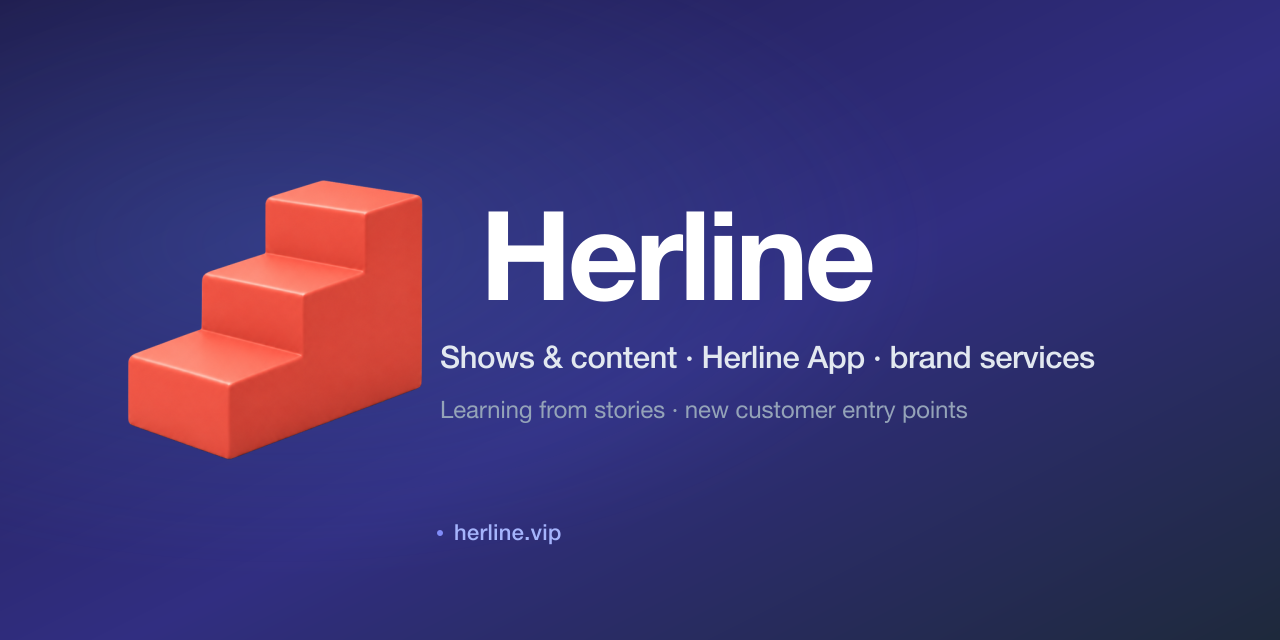
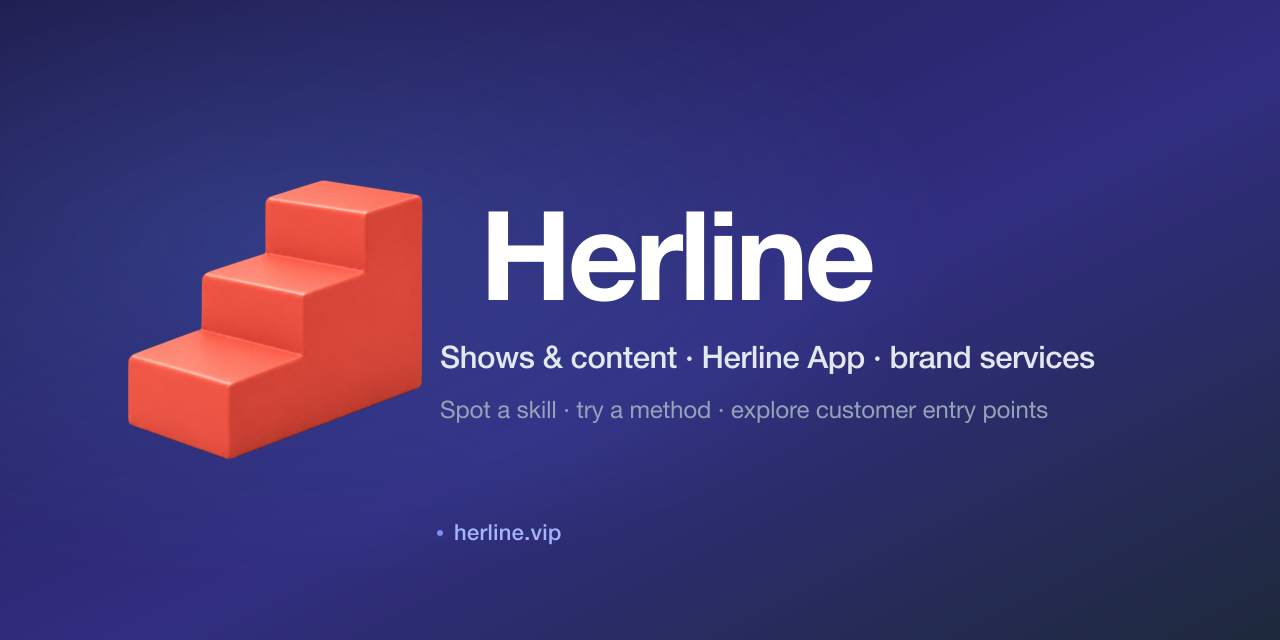
docs: make individual value concrete across public entry points

Changed region(s): [[0.3438, 0.625, 0.8125, 0.6562]]

diff --git a/README.md b/README.md
@@ -6,7 +6,7 @@
 
 <p align="center">
   <strong>Shows and content · Herline App · services for organizations</strong><br>
-  Different paths for people learning from content and businesses seeking new customer entry points.
+  People can spot a skill in a show's story and try a method; businesses can explore new customer entry points.
 </p>
 
 <p align="center">
@@ -32,7 +32,7 @@
 
 Herline is a broader project connecting shows and other content, learning and participation paths, Herline App, and services for organizations. **Herline App is one digital product within that project**, not the name for everything Herline does.
 
-The same content can matter to different readers for different reasons. A person may discover a skill worth learning; an organization may explore a new way for people to discover it. The two paths have different aims and must be assessed on their own terms.
+The same content can matter to different readers for different reasons. A person may examine a judgment or method shown in a story and try it in their own situation; an organization may explore a new way for customers to discover it. The two paths have different aims and must be assessed on their own terms.
 
 <a id="for-people"></a>
 
@@ -50,7 +50,7 @@ Herline's service direction is to help organizations develop new customer-acquis
 
 ## Public product experience
 
-Herline App is Herline's digital product. Its public AI workspace supports **judgment and expression**: AI can help with a task while people remain responsible for direction, evidence, and the final result. It is one possible way to continue from content into learning or work; show-specific participation depends on what the live product actually offers.
+Herline App is Herline's digital product. Its public AI workspace covers reading with sources, preparing courses and presentations, and rehearsing conversations. People check evidence and decide whether to use the output. Show-specific participation depends on what the live product actually offers.
 
 Herline App currently brings together practical loops:
 
@@ -69,8 +69,8 @@ Herline separates user-facing surfaces, AI agents, and long-running workflows. A
 
 | User-facing surface | AI / workflow responsibility | User outcome |
 | --- | --- | --- |
-| Assessment | Profile and starting-point capture | A clearer learning or creation starting point |
-| Atlas | Helena plans and discusses reading paths | Better source selection and learning direction |
+| Assessment | Profile and starting-point capture | A recorded starting point for reading or creation |
+| Atlas | Helena plans and discusses reading paths | A reading plan and sources to examine |
 | Library | D2B deep-reading workflow | Traceable knowledge blocks and cross-source understanding |
 | Studio | Holly develops course briefs | Audience, learning arc, structure, and delivery plan |
 | Courses | B2C course-generation workflow | Structured lessons, scripts, audio, and assessments |
@@ -88,9 +88,9 @@ See [Public product architecture](docs/architecture.md) and the [Glossary](docs/
 | Audience | Typical need | Herline path |
 | --- | --- | --- |
 | People following a show or related content | Notice a skill, question a decision, or try an idea themselves | Published content; any participation actions shown in the live product |
-| Youth learners and guardians | Build judgment, expression, and visible work over time | Assessment, Atlas, Library, Courses, Assistant |
-| Adult professionals | Turn experience into clearer decisions, presentations, courses, and market-facing work | Library, Studio, Prep, Assistant, distribution |
-| Youth educators | Prepare learning material and improve delivery without giving up professional judgment | Pro creation, research, and delivery tools |
+| Youth learners and guardians | Find material to read, examine sources, and rehearse speaking where eligible | Assessment, Atlas, Library, Courses, Assistant |
+| Adult professionals | Prepare a course brief or presentation from sources, or rehearse a conversation | Library, Studio, Prep, Assistant, distribution |
+| Youth educators | Draft lesson material, presentations, or research notes for review | Pro creation, research, and delivery tools |
 | Organizations and brands | Explore new customer entry points and manage acquisition costs | An engagement defined and assessed for the specific organization |
 | Invited operators and partners | Coordinate approved programs and distribute approved work | Role-scoped workspaces and operating tools |
 

diff --git a/README.zh-CN.md b/README.zh-CN.md
@@ -6,7 +6,7 @@
 
 <p align="center">
   <strong>节目与内容 · Herline App · 企业合作服务</strong><br>
-  面向个人的学习参与，与面向企业的新获客入口探索，各有其价值。
+  个人从节目里看见本事、尝试做法；企业探索新的获客入口。
 </p>
 
 <p align="center">
@@ -34,7 +34,7 @@
 
 Herline 是连接节目与其他内容、学习和参与路径、Herline App，以及企业服务的整体项目。**Herline App 是其中一款自有数字产品**，不等于 Herline 的全部。
 
-同一份内容对不同读者有不同价值：个人可能从中看见值得学习的本事，企业则可能探索新的被发现方式。两端的目标不同，也应分别验证。
+同一份内容对不同读者有不同价值：个人可以琢磨故事中的判断和方法，放到自己的情境中试一试；企业则可能探索新的客户发现路径。两端的目标不同，也应分别验证。
 
 <a id="for-people"></a>
 
@@ -54,7 +54,7 @@ Herline 的服务方向是帮助企业建立新的获客入口，并管理、降
 
 ## 公开产品体验
 
-Herline App 是 Herline 的数字产品。其公开 AI 工作台支持**判断力与表达力**：AI 可以协助完成任务，人负责确定方向、核验证据并对最终结果承担责任。它是从内容继续走向学习或实践的一种产品路径；分节目参与能力以实时产品实际开放情况为准。
+Herline App 是 Herline 的数字产品。其公开 AI 工作台覆盖带来源的阅读、课程与讲稿准备、语音排练等任务。人需要核对证据，并决定是否采用结果。分节目参与能力以实时产品实际开放情况为准。
 
 Herline App 当前提供多条实用链路：
 
@@ -73,8 +73,8 @@ Herline 明确区分用户界面、AI Agent 与长任务工作流。一个名称
 
 | 用户界面 | Agent / 工作流职责 | 用户得到什么 |
 | --- | --- | --- |
-| Assessment 测评 | 建立画像与起点 | 更清楚的学习或创作起点 |
-| Atlas 找书 | Helena 讨论并规划阅读路径 | 更合适的选材与学习方向 |
+| Assessment 测评 | 建立画像与起点 | 留下阅读或创作的起点记录 |
+| Atlas 找书 | Helena 讨论并规划阅读路径 | 阅读计划和待核对的来源 |
 | Library 读书 | D2B 深度解构工作流 | 可追溯的知识块与跨来源理解 |
 | Studio 创课 | Holly 形成课程策划 | 受众、学习弧线、结构与交付方案 |
 | Courses 课程 | B2C 课程生成工作流 | 结构化课程、脚本、音频与评估题 |
@@ -94,9 +94,9 @@ Herline 明确区分用户界面、AI Agent 与长任务工作流。一个名称
 | 服务对象 | 典型需求 | 主要路径 |
 | --- | --- | --- |
 | 关注节目或相关内容的人 | 看见值得学习的本事、追问某个判断、自己尝试一种做法 | 已公开内容；实时产品已开放的参与操作 |
-| 青少学员与监护人 | 长期形成判断力、表达力和可见作品 | 测评、找书、读书、课程、语音排练 |
-| 成人专业人士 | 把多年经验重新变成决定、表达、课程和市场成果 | 深读、创课、讲稿、排练与分发 |
-| 青少老师 | 借助 AI 备课和交付，同时保留专业判断 | Pro 创作、研究与交付工具 |
+| 青少学员与监护人 | 在适用权限下找阅读材料、核对来源、练习表达 | 测评、找书、读书、课程、语音排练 |
+| 成人专业人士 | 根据来源准备课程策划或讲稿，或排练一次重要对话 | 深读、创课、讲稿、排练与分发 |
+| 青少老师 | 起草教案、演示材料或研究笔记，再自行审阅 | Pro 创作、研究与交付工具 |
 | 企业与品牌 | 探索新获客入口并管理获客成本 | 按具体企业界定并验证的合作服务 |
 | 经邀请的主理人与合作方 | 在授权范围内运营项目和分发成果 | 角色专属工作区与经营工具 |
 

diff --git a/docs/architecture.md b/docs/architecture.md
@@ -1,6 +1,6 @@
 # Public Product Architecture
 
-Herline connects shows and other content, learning and participation paths, Herline App, and services for organizations. For individuals, content can reveal a skill worth learning and applying; participation should fit each program. For organizations, Herline aims to develop new customer-acquisition entry points and manage acquisition costs, with results established through actual business evidence.
+Herline connects shows and other content, learning and participation paths, Herline App, and services for organizations. For individuals, an aesthetic topic might invite a question or original work; an entrepreneurial task might prompt someone to notice a strength or problem and compare possible responses. For organizations, Herline aims to develop new customer-acquisition entry points and manage acquisition costs, with results established through actual business evidence.
 
 This page maps the **public Herline App product layer** within that broader project. It explains user-facing responsibilities and permission boundaries, not the architecture of every show or organizational engagement. Show-specific submissions, discussions, and practice are a direction; this map does not represent them as released App features.
 

diff --git a/assets/README.md b/assets/README.md
@@ -5,7 +5,7 @@ Static assets referenced by documentation in this repository.
 ## Current Contents
 
 - `logo.svg` — approved red staircase master mark, embedded as a transparent PNG in SVG for consistent display. Referenced in both README headers.
-- `architecture-diagram.svg` — Public product map for Herline's learning and expression loops.
+- `architecture-diagram.svg` — Public map of Herline App's reading, course creation, presentation, and rehearsal surfaces.
 - `social-preview.svg` + `social-preview.png` — 1280x640 social media preview card. The PNG has been rendered from the current SVG and visually checked. GitHub Settings → Social preview requires a separate upload; changing this file does not update that setting.
 - `share-wechat.svg` + `share-wechat.png` — 800x800 Chinese-language sharing card. The PNG has been rendered from the current SVG and visually checked. Both cards use the approved red staircase master mark.
 

diff --git a/docs/faq.md b/docs/faq.md
@@ -4,7 +4,7 @@
 
 ### What is Herline?
 
-Herline is a broader project spanning shows and other content, learning and participation paths, Herline App, and services for organizations. Herline App is one digital product within that project. Its public AI workspace helps people work on judgment and expression while they retain responsibility for direction, evidence, and results.
+Herline is a broader project spanning shows and other content, learning and participation paths, Herline App, and services for organizations. Herline App is one digital product within that project. Its public AI workspace covers source-based reading, course and presentation preparation, and voice rehearsal; people check evidence and decide whether to use the output.
 
 ### Why would an individual follow or participate?
 

diff --git a/docs/glossary.md b/docs/glossary.md
@@ -10,7 +10,7 @@ The broader project connecting shows and other content, learning and participati
 
 ### Herline App
 
-Herline's digital product for user-facing learning and work. A show or organizational engagement is not automatically a feature of the App; access to App capabilities depends on the live product.
+Herline's digital product for tasks such as reading with sources, preparing courses or presentations, and rehearsing conversations. A show or organizational engagement is not automatically a feature of the App; access to App capabilities depends on the live product.
 
 ### Content and IP entry
 
